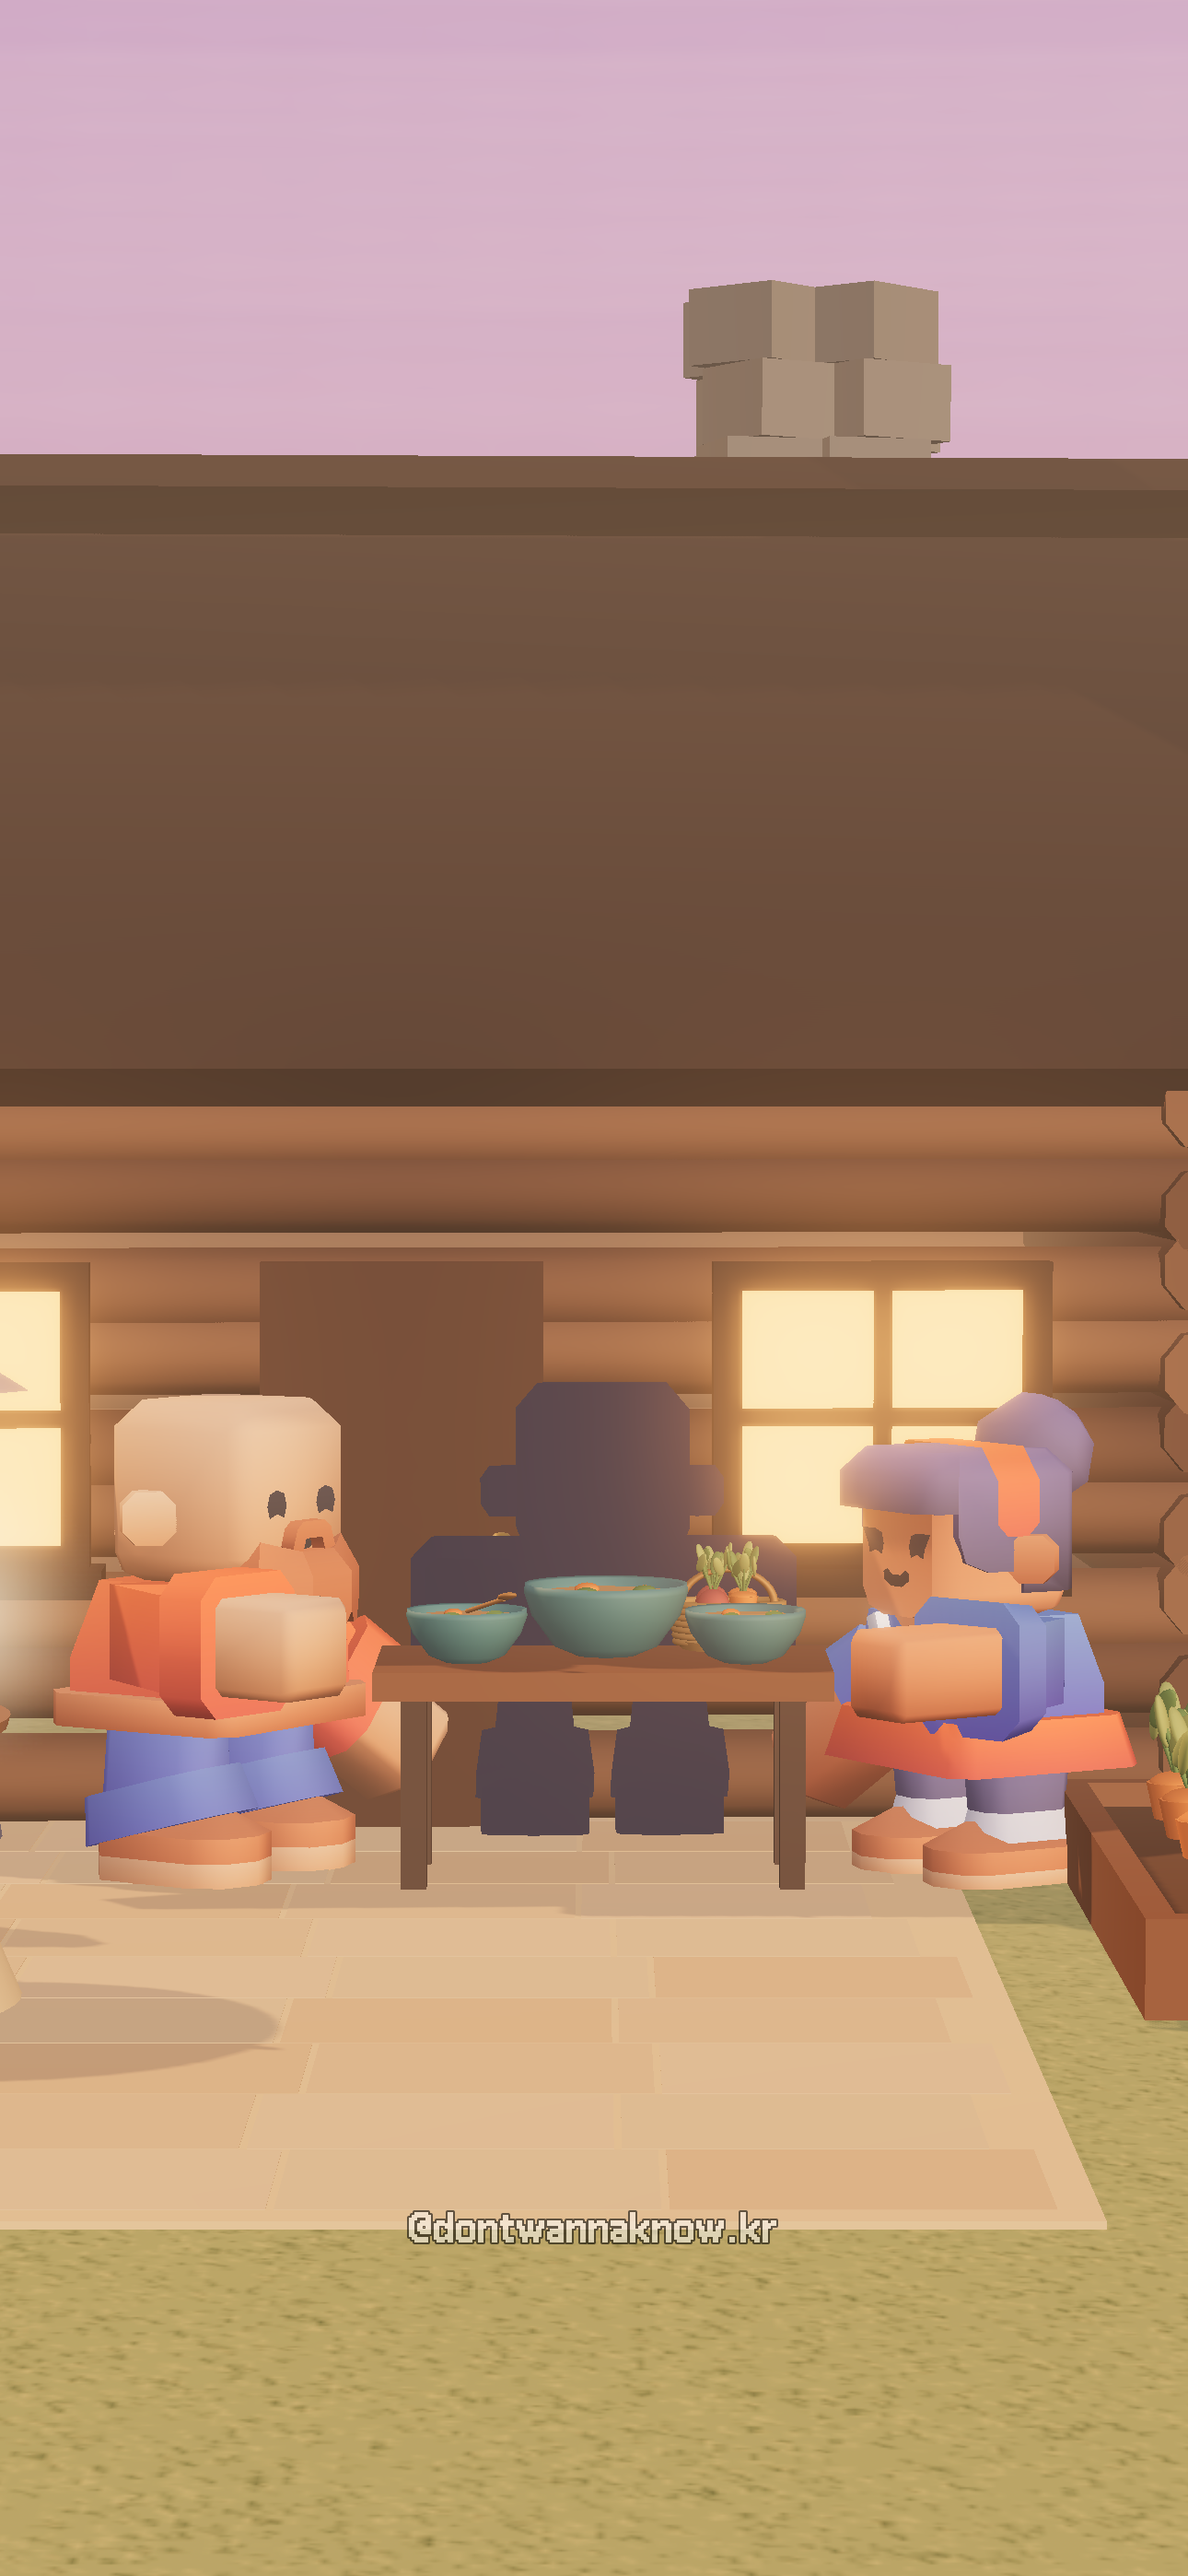
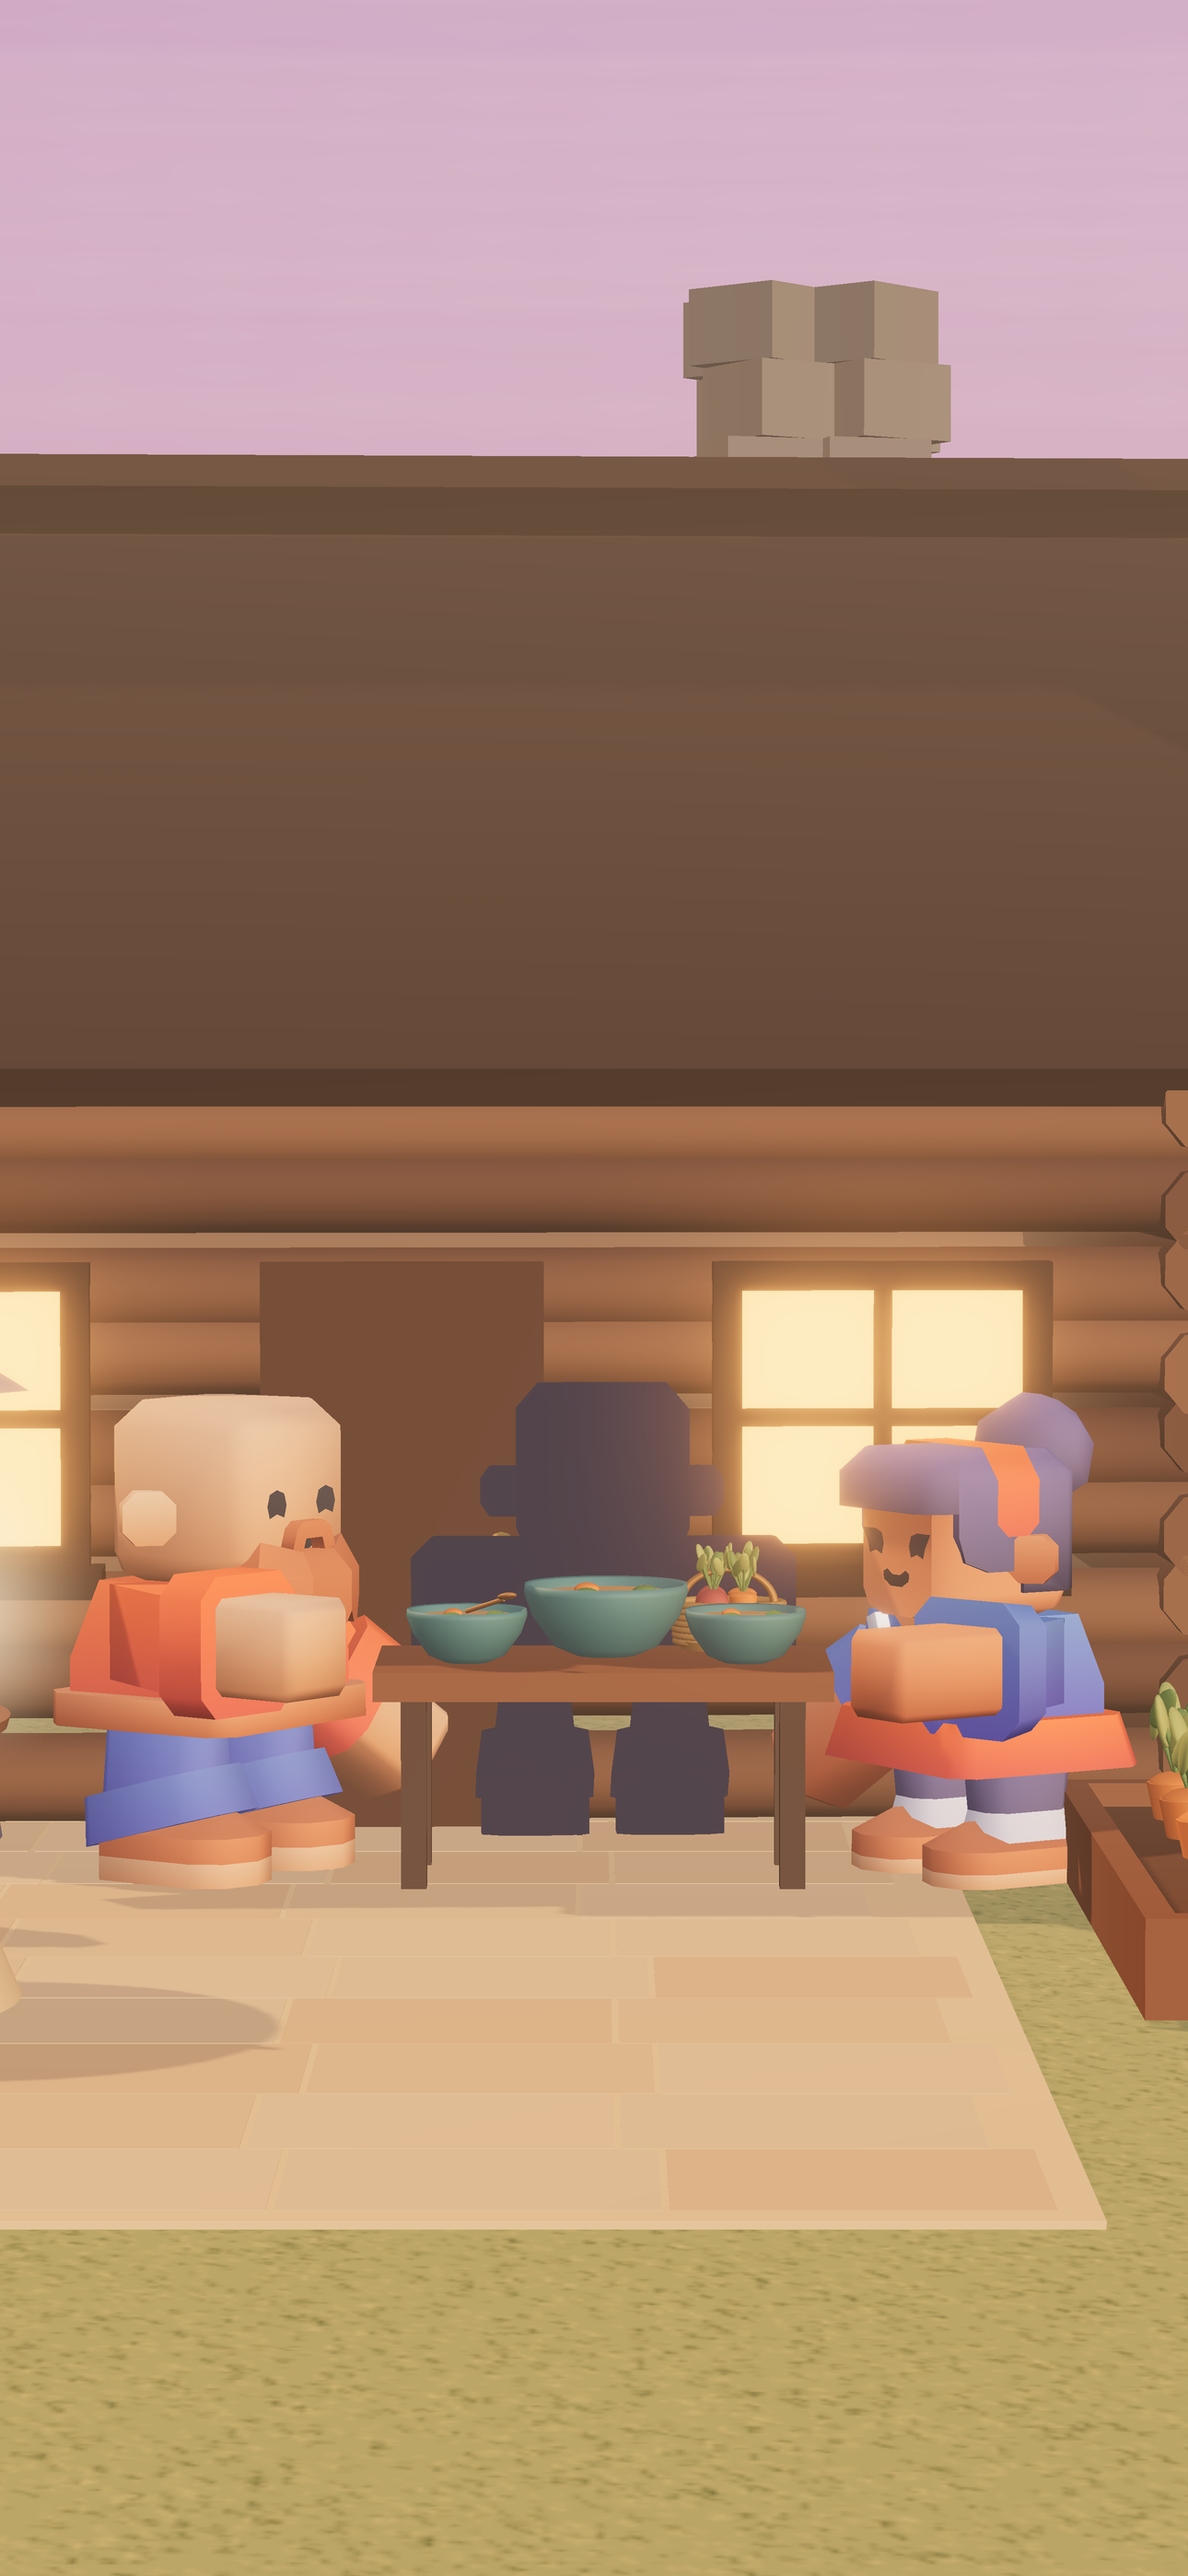
fix(배경화면): 워터마크 제거·2배 렌더 후 축소로 선명하게, 미리보기를 원본 그림으로(길게 눌러 저장 시 원본 크기)

Changed region(s): [[0.3411, 0.8401, 0.6512, 0.8712]]

diff --git a/r/hzlx57/t4dr1i/index.html b/r/hzlx57/t4dr1i/index.html
@@ -67,7 +67,7 @@ h2{font-size:22px;line-height:1.3;letter-spacing:-.01em;word-break:keep-all;text
 <section class="sec" id="sec-wp" data-sec="wp">
 <h2>배경화면</h2>
 <p class="scene">꿈 기차역에서 별을 건네는 장면</p>
-<img class="pv" src="../../../wp/3/preview.jpg" width="562" height="1000" alt="꿈 기차역에서 별을 건네는 장면 배경화면 미리보기">
+<img class="pv" src="../../../wp/3/wallpaper.png" width="1290" height="2796" alt="꿈 기차역에서 별을 건네는 장면 배경화면">
 <a class="btn" href="../../../wp/3/wallpaper.png" data-t="wp3_1290">세로로 긴 폰 · 1290×2796</a>
 <a class="btn g" href="../../../wp/3/wallpaper_1080x1920.png" data-t="wp3_1080">9:16 폰 · 1080×1920</a>
 <p class="size">요즘 폰은 대부분 위의 것이 맞아.</p>

diff --git a/r/tnfqo0/0rdkqo/index.html b/r/tnfqo0/0rdkqo/index.html
@@ -67,7 +67,7 @@ h2{font-size:22px;line-height:1.3;letter-spacing:-.01em;word-break:keep-all;text
 <section class="sec" id="sec-wp" data-sec="wp">
 <h2>배경화면</h2>
 <p class="scene">그림자까지 셋이 밥 먹는 장면</p>
-<img class="pv" src="../../../wp/1/preview.jpg" width="562" height="1000" alt="그림자까지 셋이 밥 먹는 장면 배경화면 미리보기">
+<img class="pv" src="../../../wp/1/wallpaper.png" width="1290" height="2796" alt="그림자까지 셋이 밥 먹는 장면 배경화면">
 <a class="btn" href="../../../wp/1/wallpaper.png" data-t="wp1_1290">세로로 긴 폰 · 1290×2796</a>
 <a class="btn g" href="../../../wp/1/wallpaper_1080x1920.png" data-t="wp1_1080">9:16 폰 · 1080×1920</a>
 <p class="size">요즘 폰은 대부분 위의 것이 맞아.</p>

diff --git a/r/hzlx57/index.html b/r/hzlx57/index.html
@@ -67,7 +67,7 @@ h2{font-size:22px;line-height:1.3;letter-spacing:-.01em;word-break:keep-all;text
 <section class="sec" id="sec-wp" data-sec="wp">
 <h2>배경화면</h2>
 <p class="scene">꿈 기차역에서 별을 건네는 장면</p>
-<img class="pv" src="../../wp/3/preview.jpg" width="562" height="1000" alt="꿈 기차역에서 별을 건네는 장면 배경화면 미리보기">
+<img class="pv" src="../../wp/3/wallpaper.png" width="1290" height="2796" alt="꿈 기차역에서 별을 건네는 장면 배경화면">
 <a class="btn" href="../../wp/3/wallpaper.png" data-t="wp3_1290">세로로 긴 폰 · 1290×2796</a>
 <a class="btn g" href="../../wp/3/wallpaper_1080x1920.png" data-t="wp3_1080">9:16 폰 · 1080×1920</a>
 <p class="size">요즘 폰은 대부분 위의 것이 맞아.</p>

diff --git a/wp/3/index.html b/wp/3/index.html
@@ -40,7 +40,7 @@ h2{font-size:22px;line-height:1.3;letter-spacing:-.01em;word-break:keep-all;text
 <p class="badge">세 개의 문 · 3번 꿈</p>
 <h1>배경화면</h1>
 <p class="scene">꿈 기차역에서 별을 건네는 장면</p>
-<img class="pv" src="../../wp/3/preview.jpg" width="562" height="1000" alt="꿈 기차역에서 별을 건네는 장면 배경화면 미리보기">
+<img class="pv" src="../../wp/3/wallpaper.png" width="1290" height="2796" alt="꿈 기차역에서 별을 건네는 장면 배경화면">
 <a class="btn" href="../../wp/3/wallpaper.png" data-t="wp3_1290">세로로 긴 폰 · 1290×2796</a>
 <a class="btn g" href="../../wp/3/wallpaper_1080x1920.png" data-t="wp3_1080">9:16 폰 · 1080×1920</a>
 <p class="size">요즘 폰은 대부분 위의 것이 맞아.</p>

diff --git a/wp/1/index.html b/wp/1/index.html
@@ -40,7 +40,7 @@ h2{font-size:22px;line-height:1.3;letter-spacing:-.01em;word-break:keep-all;text
 <p class="badge">세 개의 문 · 1번 그림자</p>
 <h1>배경화면</h1>
 <p class="scene">그림자까지 셋이 밥 먹는 장면</p>
-<img class="pv" src="../../wp/1/preview.jpg" width="562" height="1000" alt="그림자까지 셋이 밥 먹는 장면 배경화면 미리보기">
+<img class="pv" src="../../wp/1/wallpaper.png" width="1290" height="2796" alt="그림자까지 셋이 밥 먹는 장면 배경화면">
 <a class="btn" href="../../wp/1/wallpaper.png" data-t="wp1_1290">세로로 긴 폰 · 1290×2796</a>
 <a class="btn g" href="../../wp/1/wallpaper_1080x1920.png" data-t="wp1_1080">9:16 폰 · 1080×1920</a>
 <p class="size">요즘 폰은 대부분 위의 것이 맞아.</p>

diff --git a/r/tnfqo0/index.html b/r/tnfqo0/index.html
@@ -67,7 +67,7 @@ h2{font-size:22px;line-height:1.3;letter-spacing:-.01em;word-break:keep-all;text
 <section class="sec" id="sec-wp" data-sec="wp">
 <h2>배경화면</h2>
 <p class="scene">그림자까지 셋이 밥 먹는 장면</p>
-<img class="pv" src="../../wp/1/preview.jpg" width="562" height="1000" alt="그림자까지 셋이 밥 먹는 장면 배경화면 미리보기">
+<img class="pv" src="../../wp/1/wallpaper.png" width="1290" height="2796" alt="그림자까지 셋이 밥 먹는 장면 배경화면">
 <a class="btn" href="../../wp/1/wallpaper.png" data-t="wp1_1290">세로로 긴 폰 · 1290×2796</a>
 <a class="btn g" href="../../wp/1/wallpaper_1080x1920.png" data-t="wp1_1080">9:16 폰 · 1080×1920</a>
 <p class="size">요즘 폰은 대부분 위의 것이 맞아.</p>

diff --git a/r/so1v1p/2yc6um/index.html b/r/so1v1p/2yc6um/index.html
@@ -67,7 +67,7 @@ h2{font-size:22px;line-height:1.3;letter-spacing:-.01em;word-break:keep-all;text
 <section class="sec" id="sec-wp" data-sec="wp">
 <h2>배경화면</h2>
 <p class="scene">꽃 그림을 건네는 장면</p>
-<img class="pv" src="../../../wp/2/preview.jpg" width="562" height="1000" alt="꽃 그림을 건네는 장면 배경화면 미리보기">
+<img class="pv" src="../../../wp/2/wallpaper.png" width="1290" height="2796" alt="꽃 그림을 건네는 장면 배경화면">
 <a class="btn" href="../../../wp/2/wallpaper.png" data-t="wp2_1290">세로로 긴 폰 · 1290×2796</a>
 <a class="btn g" href="../../../wp/2/wallpaper_1080x1920.png" data-t="wp2_1080">9:16 폰 · 1080×1920</a>
 <p class="size">요즘 폰은 대부분 위의 것이 맞아.</p>

diff --git a/wp/2/index.html b/wp/2/index.html
@@ -40,7 +40,7 @@ h2{font-size:22px;line-height:1.3;letter-spacing:-.01em;word-break:keep-all;text
 <p class="badge">세 개의 문 · 2번 목소리</p>
 <h1>배경화면</h1>
 <p class="scene">꽃 그림을 건네는 장면</p>
-<img class="pv" src="../../wp/2/preview.jpg" width="562" height="1000" alt="꽃 그림을 건네는 장면 배경화면 미리보기">
+<img class="pv" src="../../wp/2/wallpaper.png" width="1290" height="2796" alt="꽃 그림을 건네는 장면 배경화면">
 <a class="btn" href="../../wp/2/wallpaper.png" data-t="wp2_1290">세로로 긴 폰 · 1290×2796</a>
 <a class="btn g" href="../../wp/2/wallpaper_1080x1920.png" data-t="wp2_1080">9:16 폰 · 1080×1920</a>
 <p class="size">요즘 폰은 대부분 위의 것이 맞아.</p>

diff --git a/r/so1v1p/index.html b/r/so1v1p/index.html
@@ -67,7 +67,7 @@ h2{font-size:22px;line-height:1.3;letter-spacing:-.01em;word-break:keep-all;text
 <section class="sec" id="sec-wp" data-sec="wp">
 <h2>배경화면</h2>
 <p class="scene">꽃 그림을 건네는 장면</p>
-<img class="pv" src="../../wp/2/preview.jpg" width="562" height="1000" alt="꽃 그림을 건네는 장면 배경화면 미리보기">
+<img class="pv" src="../../wp/2/wallpaper.png" width="1290" height="2796" alt="꽃 그림을 건네는 장면 배경화면">
 <a class="btn" href="../../wp/2/wallpaper.png" data-t="wp2_1290">세로로 긴 폰 · 1290×2796</a>
 <a class="btn g" href="../../wp/2/wallpaper_1080x1920.png" data-t="wp2_1080">9:16 폰 · 1080×1920</a>
 <p class="size">요즘 폰은 대부분 위의 것이 맞아.</p>
